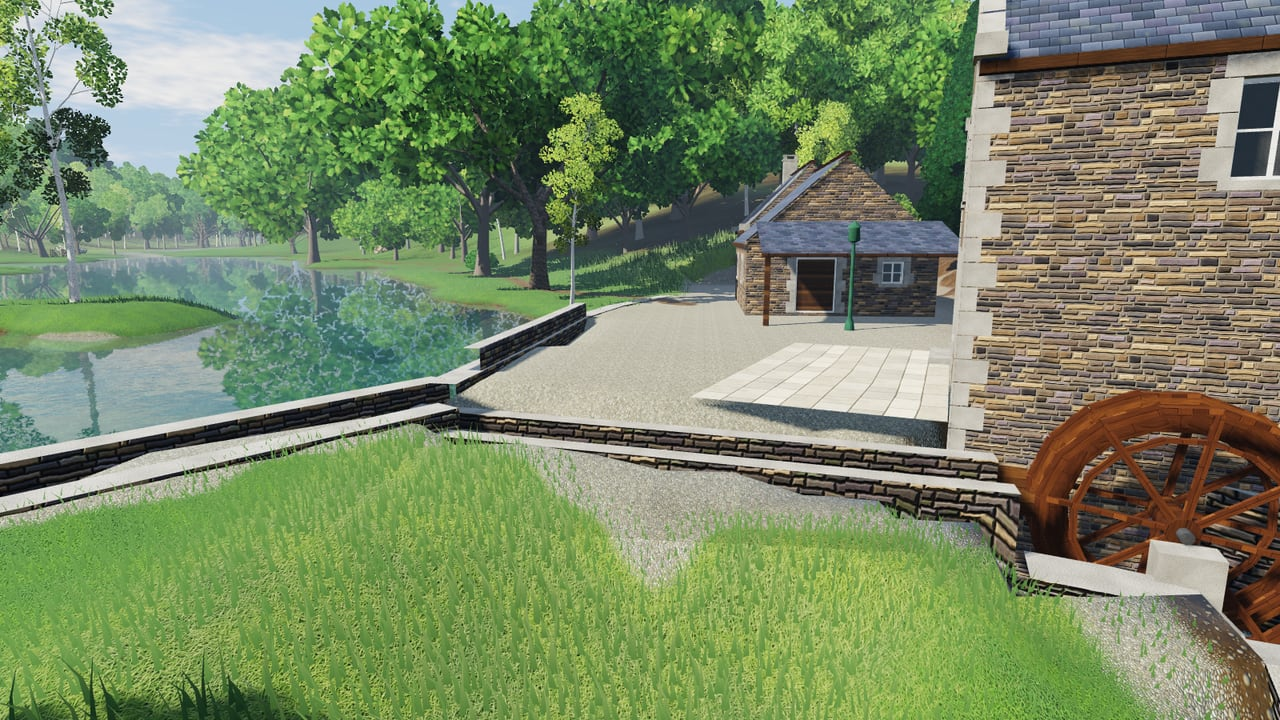
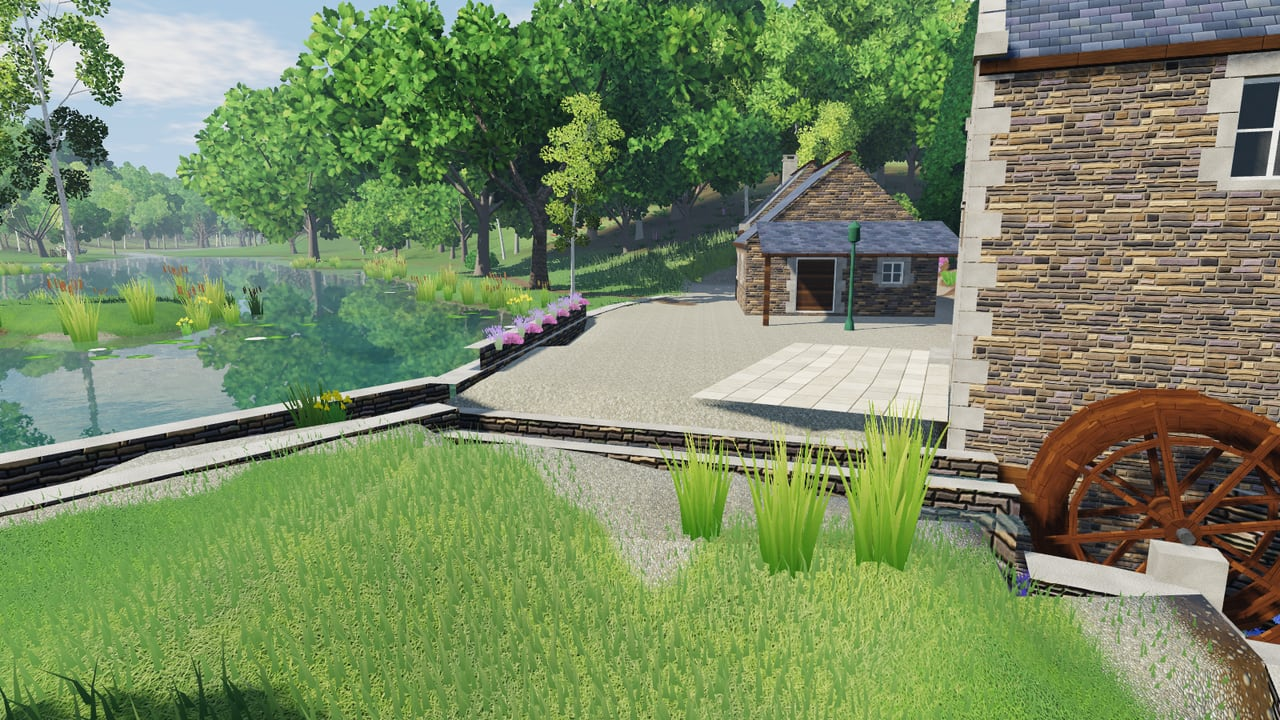
Petites plantes au palier Ultra, captures à jour
- Dispersion des plantes : les cellules les plus proches passent en
  premier et la capacité suit le palier (au palier Ultra, les plantes
  proches de la caméra étaient écartées faute de place).
- Captures du README refaites dans l'état final, avec le ruisseau et
  la plage.

Claude-Session: https://claude.ai/code/session_01QuzL1v2VSMuBpNy3gkEDNB

diff --git a/src/world/vegetation/Scatter.js b/src/world/vegetation/Scatter.js
@@ -122,7 +122,8 @@ export class Scatter {
     this.range = engine.tier.scatterRange;
     this.density = engine.tier.scatterDensity;
     this.cells = new Map();
-    this.capacity = 26000;
+    // room for what a tier can show at once (the nearest cells win when an area is denser than that)
+    this.capacity = Math.round(26000 * Math.max(1, (this.range / 80) ** 2 * this.density));
     this.group = new THREE.Group();
     this.group.name = 'scatter';
     this.stats = { instances: 0, cells: 0 };
@@ -269,8 +270,11 @@ export class Scatter {
     const c0x = Math.floor((cp.x - R) / CELL), c1x = Math.floor((cp.x + R) / CELL);
     const c0z = Math.floor((cp.z - R) / CELL), c1z = Math.floor((cp.z + R) / CELL);
     const key = `${c0x},${c1x},${c0z},${c1z}`;
-    if (key === this._key && !this._pending) return;
+    // when some cells did not fit, the choice is revisited as the viewer moves
+    const moved = this._full && Math.hypot(cp.x - this._bx, cp.z - this._bz) > 12;
+    if (key === this._key && !this._pending && !moved) return;
     this._key = key;
+    this._bx = cp.x; this._bz = cp.z;
     // generate at most a couple of new cells per frame to stay smooth
     let budget = this._first ? 2 : 64;
     this._first = true;
@@ -286,12 +290,17 @@ export class Scatter {
         this.cells.set(k, cell);
       }
       cell.used = this.engine.frame;
+      cell.d = Math.hypot((cx + 0.5) * CELL - cp.x, (cz + 0.5) * CELL - cp.z);
       active.push(cell);
     }
     this._pending = pending;
+    // nearest cells first: if the buffer fills up, only the far ones are left out
+    active.sort((a, b) => a.d - b.d);
     let n = 0;
+    this._full = false;
     for (const cell of active) {
       const len = Math.min(cell.data.length, this.buffer.length - n);
+      if (len < cell.data.length) this._full = true;
       if (len <= 0) break;
       this.buffer.set(len === cell.data.length ? cell.data : cell.data.subarray(0, len), n);
       n += len;

diff --git a/README.md b/README.md
@@ -10,7 +10,8 @@ seul ou à plusieurs.
 | | |
 |---|---|
 | ![L'arrivée par l'allée](docs/allee.jpg) | ![La rocaille](docs/rocaille.jpg) |
-| ![La cour et la roue](docs/cour.jpg) | ![La jetée et la grande roue](docs/jetee.jpg) |
+| ![La cour et la roue](docs/cour.jpg) | ![Le ruisseau](docs/ruisseau.jpg) |
+| ![La jetée et la grande roue](docs/jetee.jpg) | ![La plage](docs/plage.jpg) |
 
 ## Démarrer
 
